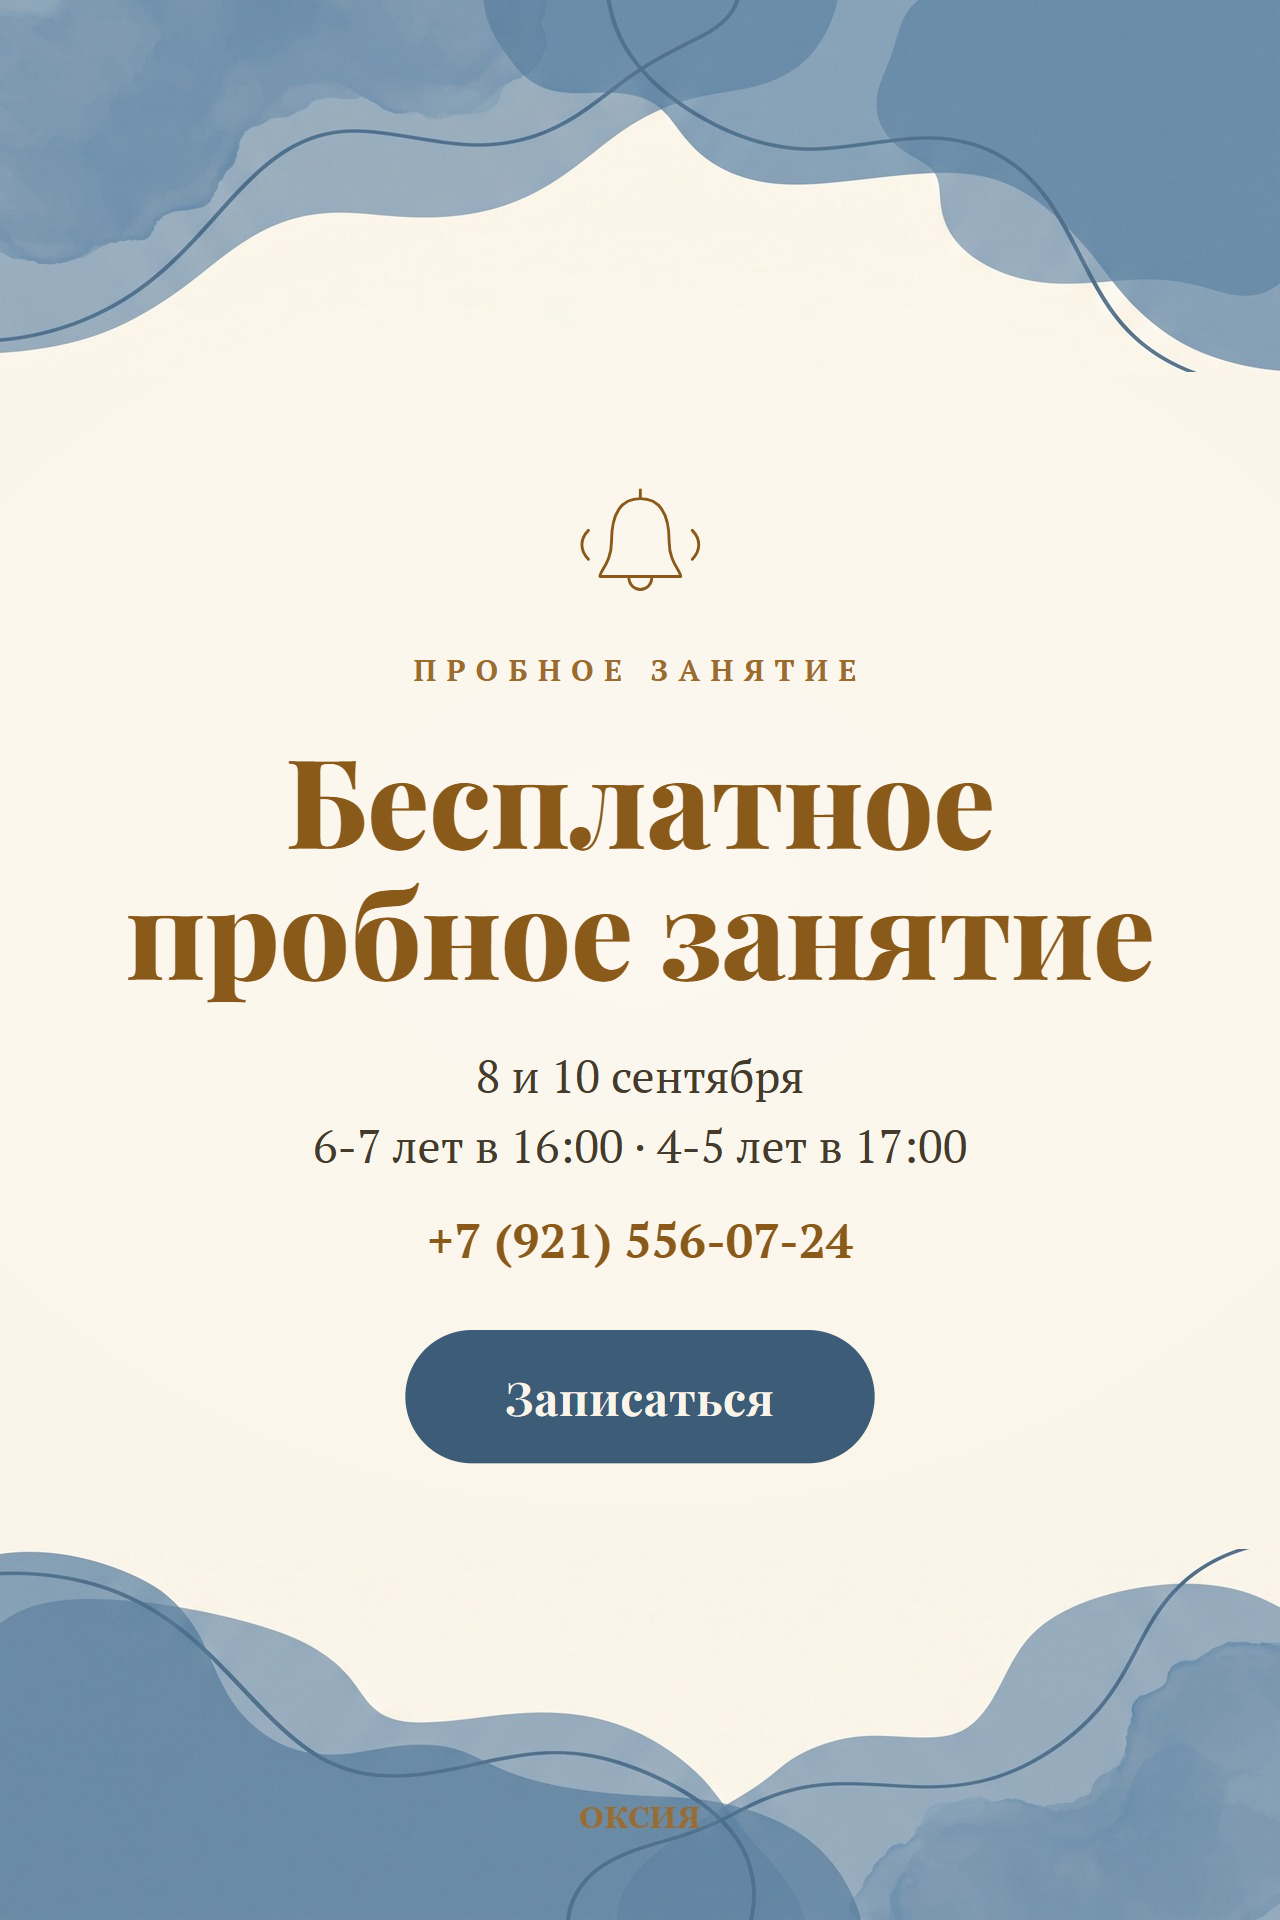
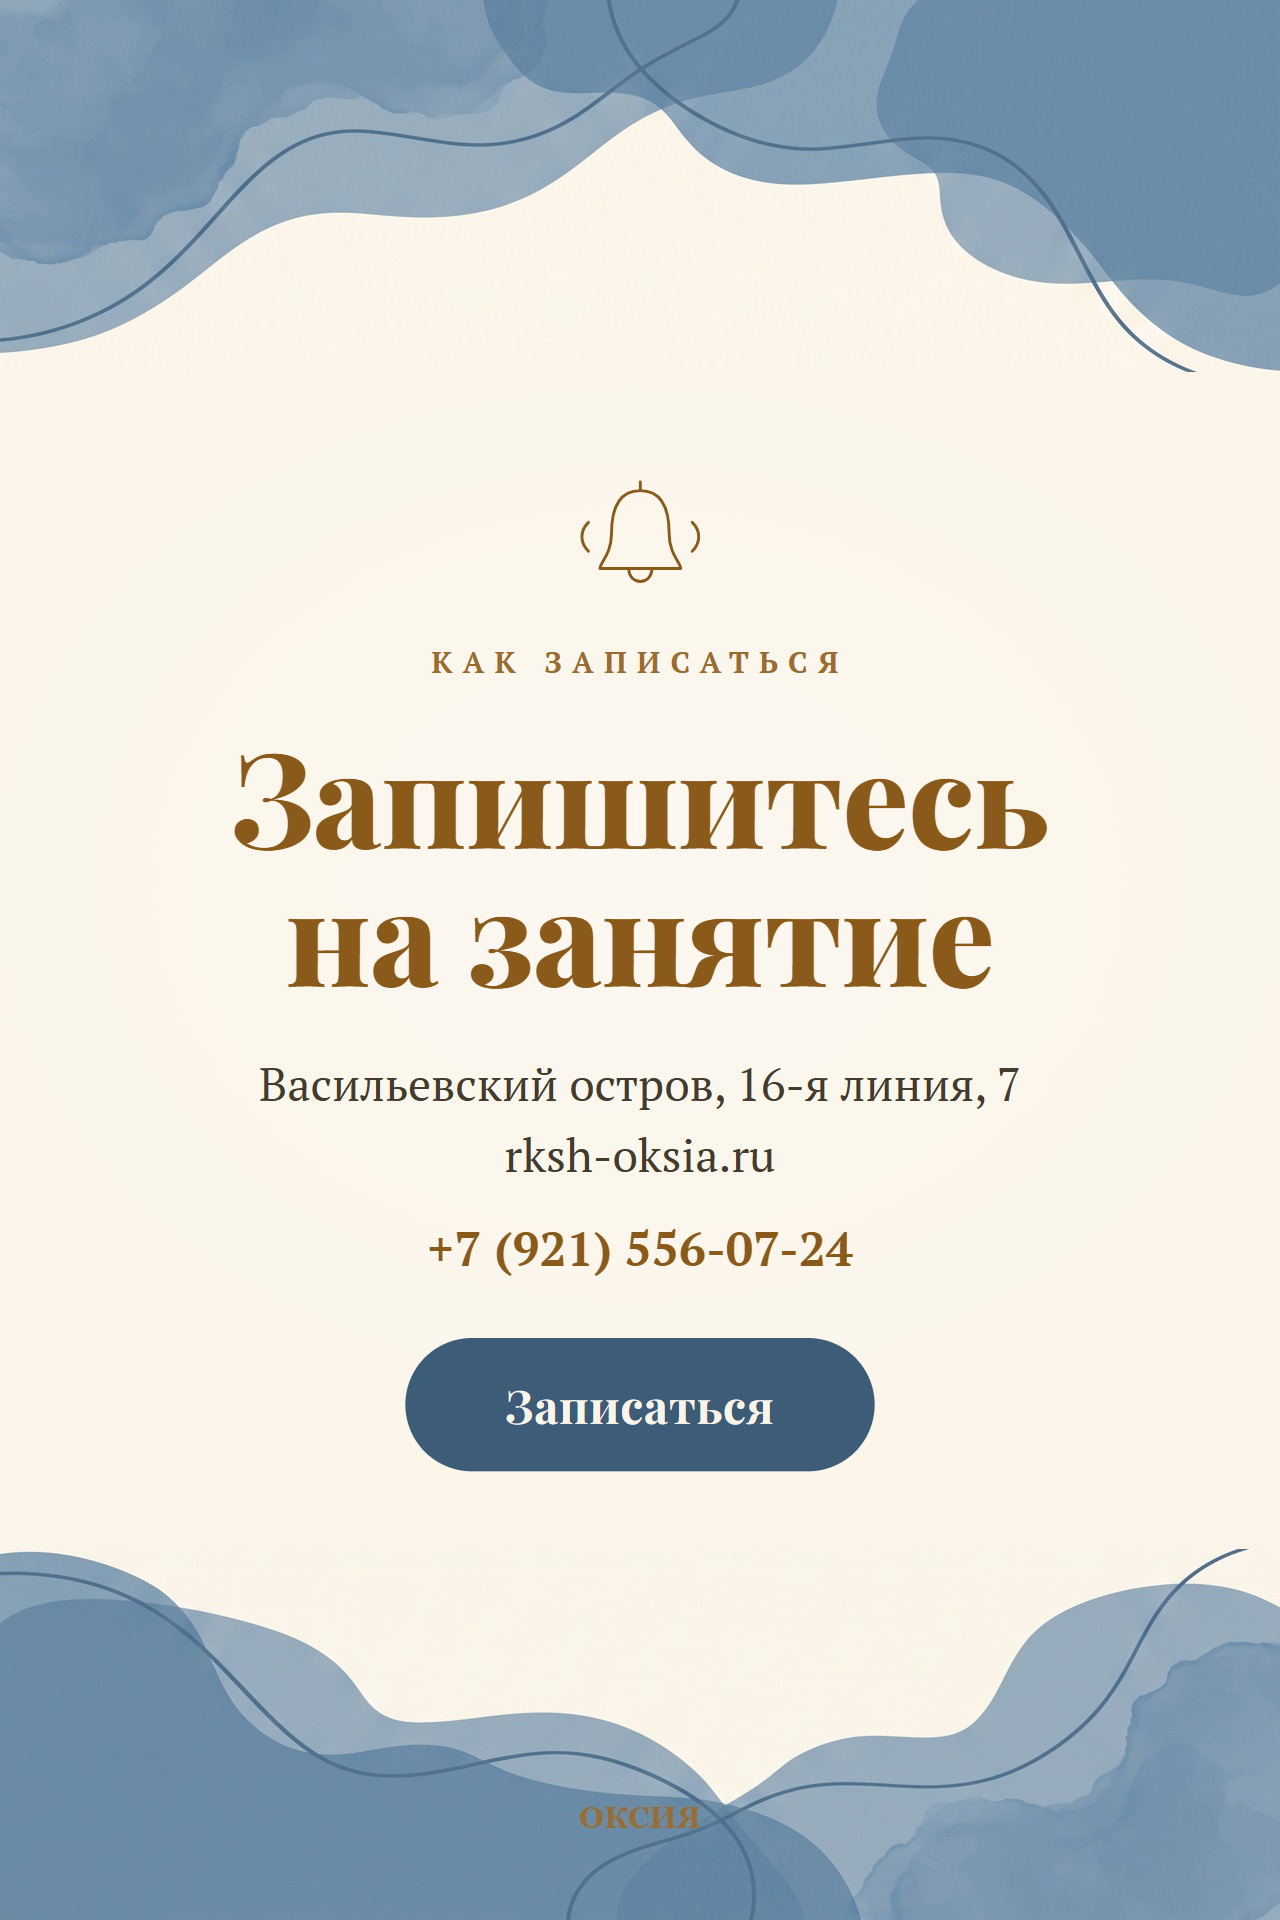
Istorii: slide 10 bez dat + oblozhki ostalnyh 5 istorij (na soglasovanie)

diff --git a/story-preview/index.html b/story-preview/index.html
@@ -42,10 +42,20 @@
     <div class="card"><img src="new/07.png" alt="7"><div class="cap">7. Педагог рядом с каждым</div></div>
     <div class="card"><img src="new/08.png" alt="8"><div class="cap">8. В школу идёт без страха</div></div>
     <div class="card"><img src="new/09.png" alt="9"><div class="cap">9. Чем раньше, тем легче</div></div>
-    <div class="card"><img src="new/10.png" alt="10"><div class="cap">10. Пробное занятие</div></div>
+    <div class="card"><img src="new/10.png" alt="10"><div class="cap">10. Как записаться (без дат)</div></div>
   </div>
 
-  <h2>Было</h2>
+  <h2>Обложки остальных 5 историй — на согласование</h2>
+  <p class="lead">Первый слайд каждой истории в том же стиле. Скажешь «ок» по направлению — соберу все 10 слайдов каждой.</p>
+  <div class="grid" style="margin-top:14px">
+    <div class="card"><img src="covers/family.png" alt="Семейные классы"><div class="cap">Семейные классы</div></div>
+    <div class="card"><img src="covers/dop.png" alt="Дополнительные занятия"><div class="cap">Дополнительные занятия</div></div>
+    <div class="card"><img src="covers/teachers.png" alt="Педагоги"><div class="cap">Педагоги</div></div>
+    <div class="card"><img src="covers/lessons.png" alt="Как проходят занятия"><div class="cap">Как проходят занятия</div></div>
+    <div class="card"><img src="covers/signup.png" alt="Как записаться"><div class="cap">Как записаться</div></div>
+  </div>
+
+  <h2>История «Подготовка к школе» — было</h2>
   <div class="grid old">
     <div class="card"><img src="../images/img002.jpg" alt="старый 1"><div class="cap">1</div></div>
     <div class="card"><img src="../images/img017.jpg" alt="старый 2"><div class="cap">2</div></div>
@@ -60,12 +70,13 @@
   </div>
 
   <div class="q">
-    <p><b>Нужны актуальные даты пробных (слайд 10).</b> В сценарии были 3, 8 и 10 сентября. 3-е прошло, пока стоит «8 и 10 сентября». Дай даты — поправлю за минуту.</p>
+    <p><b>Даты пробных из историй убраны.</b> В сторис теперь только то, что не меняется в течение года: продукт, цены, школа, контакты. Слайд 10 — «как записаться» без дат. Даты пробных вынесем в раздел «События» карточки Яндекса.</p>
   </div>
 
   <ul>
-    <li>Заголовки переписаны под крючок: «В школу идёт без страха», «Чем раньше, тем легче», «Педагог рядом с каждым».</li>
-    <li>Если версия ок — заменю картинки в панели и соберу остальные 5 историй в этом же стиле.</li>
+    <li>Заголовки — крючки: «В школу идёт без страха», «Чем раньше, тем легче», «Педагог рядом с каждым».</li>
+    <li>По «Подготовке к школе»: скажешь «ок» — заменю 10 картинок в панели.</li>
+    <li>По 5 обложкам: скажешь «ок» — соберу все слайды каждой истории.</li>
   </ul>
 
   <a class="back" href="../">← к панели ОКСИЯ</a>
